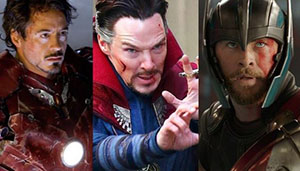
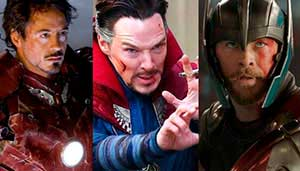
Imagens refatoradas e modal coringa finalizado
Diminui o tamanho de todas as imagens e terminei de acrescentar conteúdo e imagens para o ultimo modal do site

diff --git a/pags/noticias/modalCoringa.html b/pags/noticias/modalCoringa.html
@@ -3,56 +3,59 @@
         <div class="modal-content">
 
             <div class="modal-header">
-                <h2 class="modal-title">Indicados ao Oscar</h5>
-                <button type="button" class="close" data-dismiss="modal">
-                    <span>&times;</span>
-                </button>
+                <h2 class="modal-title">Mortalmente icônico</h5>
+                    <button type="button" class="close" data-dismiss="modal">
+                        <span>&times;</span>
+                    </button>
             </div>
             <div class="modal-body">
                 <div class="container-fluid">
                     <div class="row">
                         <div class="col-12 col-lg-5">
-                            <img src="images/noticias/n1-Irlandes.jpg"
-                                alt="Imagem do filme O Irlandês onde o protagonista está de cara séria frente ao mar.">
+                            <img src="images/noticias/n6-CoringaMaquia.jpg"
+                                alt="O personagem principal está maquiado de palhaço e olha como um psicopata">
                         </div>
                         <div class="col-12  col-lg-7 mt-2 mt-lg-n1">
-                            <h3 class="mb-2">Indicado a melhor filme: O Irlandes.</h3>
-                            <p>Frank Sheeran (Robert De Niro) é um veterano de guerra cheio de condecorações que
-                                concilia a vida de caminhoneiro com a de assassino de aluguel número um da máfia.
-                                Promovido a líder sindical, ele torna-se o principal suspeito quando o mais famoso
-                                ex-presidente da associação desaparece misteriosamente.</p>
+                            <h3 class="mb-2">Obtendo retornos:</h3>
+                            <p>Estreiou no início de outubro e já rendeu ótimos retornos de investimento, ficando no
+                                topo do ranking de bilheteria passando na frente até mesmo de Angry Birds. Muitos dos
+                                que foram nos cinemas para acompanhar a história de um palhaço psicopata acharam a
+                                história com um bom enredo e um ótimo pontapé inicial para sair da crise.</p>
                         </div>
                     </div>
                     <div class="row mt-3">
                         <div class="col-12 col-lg-5">
-                            <img src="images/noticias/n1-Coringa.jpg"
-                                alt="Joaquin Phoenix vestido de palhaço com olhar de psicopata">
+                            <img src="images/noticias/n6-CoringaFracasso.jpg"
+                                alt="Personagens de Liga da Justiça fazendo pose para foto, todo mundo de pé.">
                         </div>
                         <div class=" col-12 col-lg-7">
-                            <h3 class="mb-2">Indicado a melhor ator: Joaquin Phoenix.</h3>
-                            <p>Em sua última atuação, protagonizou o grande vilão inimigo do Batman do universo DC,
-                                realizando uma arrecadação bilionária e enchendo os bolsos da Disney de dinheiro. Pois
-                                é. Em sua atuação de louco deturbado rendeu ótimas críticas e entrou para nossa lista de
-                                indicados de 2020. </p>
+                            <h3 class="mb-2">Que crise?</h3>
+                            <p>Não é surpresa para ninguém as dificuldades que o gigante dos quadrinhos DC Comics tem
+                                passado para agradar seus fãs, e isso vai desde aos fracassos de bilheteria e aceitação
+                                do público com a estreia de Lanterna Verde, até os mais atuais lançamentos de Liga da
+                                Justiça. Muitos consideram esse o melhor filme da empresa em muitos anos</p>
                         </div>
                     </div>
                     <div class="row mt-3">
                         <div class="col-12 col-lg-5">
-                            <img src="images/noticias/n1-CharlizeT.jpg" alt="Charlize em entrevista toda produzida">
+                            <img src="images/noticias/n6-CoringaDimdim.jpg"
+                                alt="Coringa dançando com uma chuva de dinheiro em volta">
                         </div>
                         <div class="col-12 col-lg-7">
-                            <h3 class="mb-2">Indicada a melhor atriz: Charlize Theron</h3>
-                            <p>Charlize Theron ganhou 14 quilos e usou dentes falsos para fazer o papel da serial killer
-                                da vida real Aileen Wuornos em Monster – Desejo Assassino. Mas disse que representar a
-                                ex-âncora da Fox News Megyn Kelly em O Escândalo, que chega aos cinemas brasileiros em
-                                janeiro de 2020, foi bem mais difícil.</p>
+                            <h3 class="mb-2">Previsão da editoria:</h3>
+                            <p>Tudo indica que o filme será um sucesso, Com tanto retrno assim para os cofres da Warner,
+                                é muito provável que sejá criada uma continuação para o filme. Fato é, esse filme inovou
+                                no universo de super heróis, sem nehuma cena de ação com super poderes, mostrando que um
+                                bom enredo pode sim fazer a diferença para um bom filme, coisa que estava em falta nos
+                                filmes da DC.</p>
                         </div>
                     </div>
 
                 </div>
                 <div class="modal-footer">
                     <span class="text-muted">Por <a
-                            href="http://www.adorocinema.com/noticias/filmes/noticia-151656/" target="_blank">AdoroCinema.com</a></span>
+                            href="https://entretenimento.uol.com.br/noticias/redacao/2019/10/14/coringa-lidera-bilheterias-no-brasil-mais-uma-vez.htm"
+                            target="_blank">EntretenimentoUol.com</a></span>
                     <button type="button" class="btn btn-danger" data-dismiss="modal">Fechar</button>
                 </div>
             </div>
